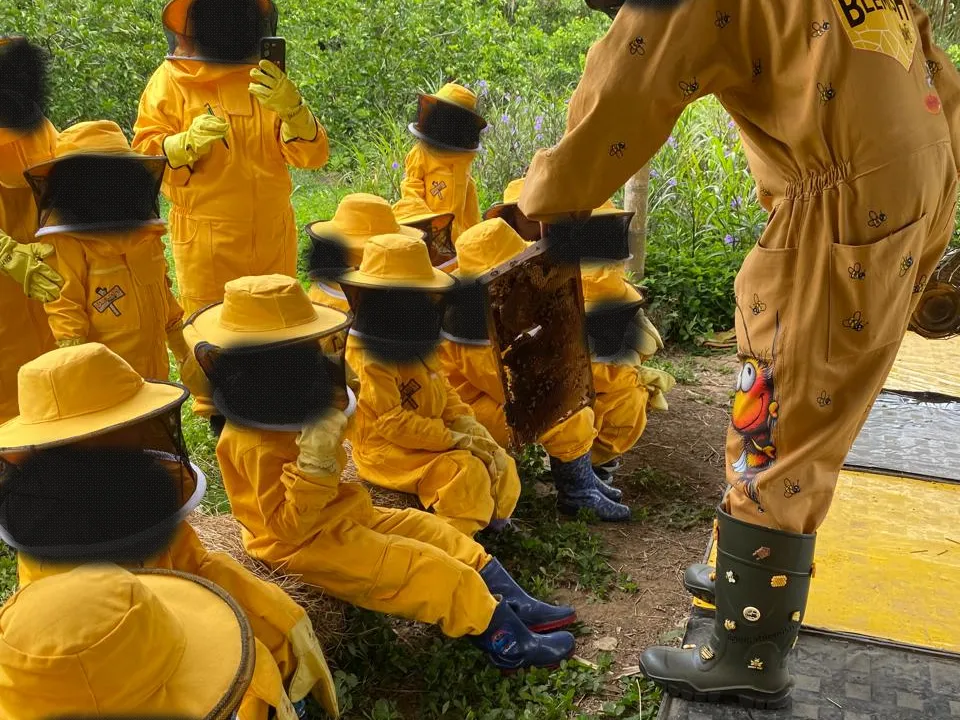
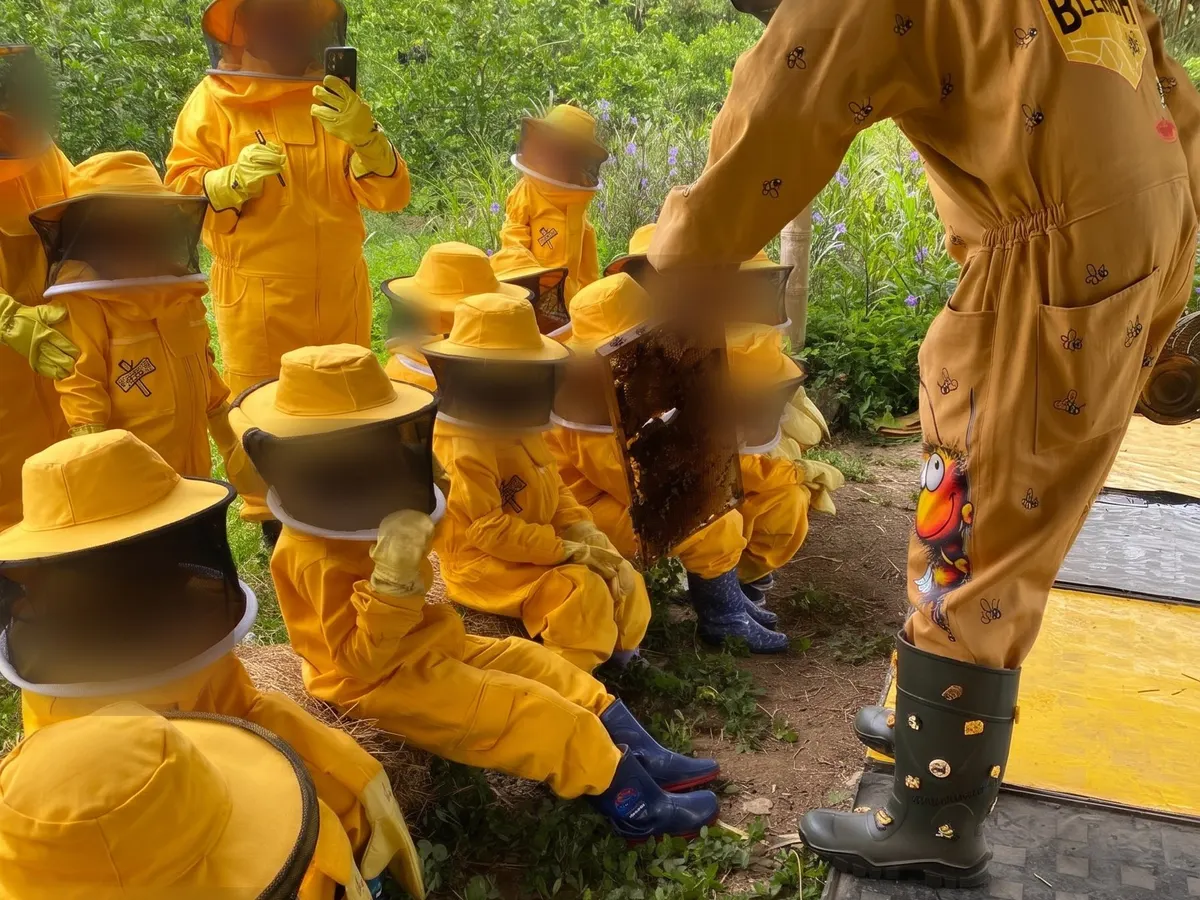
Plan Estudiantil: foto de Angel con rostros difuminados reforzados

diff --git a/index.html b/index.html
@@ -21,7 +21,7 @@
 <p class="lead">En Finca Blemish, a orillas de un brazo del río Cauca en Quinamayo (Jamundí), te invitamos a conocer de cerca el mundo de las abejas, la naturaleza y la vida del campo. Todas las visitas se programan con reserva previa.</p>
 <div class="xp">
 <article class="xcard"><img src="img/apicultor-dia.webp" alt="Apicultor por un día" loading="lazy"><div class="xb"><h3>Plan Turístico - Un Viaje a la Miel (Apicultor por un día)</h3><p>Recorrido por el apiario con traje de protección, aprendizaje sobre las abejas y la producción de miel, degustación y refrigerio. Los niños se gradúan como apicultores.</p><ul class="price"><li>Niños (2 a 14 años) <b>$50.000</b></li><li>Adultos (desde 15 años) <b>$55.000</b></li><li>Bebés (menores de 2 años) <b>Gratis</b></li></ul><small>Por persona</small></div></article>
-<article class="xcard"><picture><source srcset="img/plan-estudiantil.webp" type="image/webp"><img src="img/plan-estudiantil.jpg" alt="Estudiantes con trajes de apicultor observan un marco de panal que muestra el apicultor de Finca BlemisH" loading="lazy" width="960" height="720"></picture><div class="xb"><h3>Plan Estudiantil - Presencial y/o en tu Colegio</h3><p>Recorrido por el apiario con traje de protección Finca BlemisH, aprendizaje sobre las abejas y la producción de miel, degustación, refrigerio, rompecabezas (puzzle) y diploma. ¡Los estudiantes se gradúan como apicultores!</p><ul class="price"><li>Estudiante (en la finca) <b>$45.000</b></li><li>Profesores <b>Gratis</b></li><li>Visita a tu colegio <b>A cotizar</b></li></ul><small>Por persona. Requisito: 1 profesor acompañante por cada 6 estudiantes.</small></div></article>
+<article class="xcard"><picture><source srcset="img/plan-estudiantil.webp?v=2" type="image/webp"><img src="img/plan-estudiantil.jpg?v=2" alt="Estudiantes con trajes de apicultor observan un marco de panal que muestra el apicultor de Finca BlemisH" loading="lazy" width="1200" height="900"></picture><div class="xb"><h3>Plan Estudiantil - Presencial y/o en tu Colegio</h3><p>Recorrido por el apiario con traje de protección Finca BlemisH, aprendizaje sobre las abejas y la producción de miel, degustación, refrigerio, rompecabezas (puzzle) y diploma. ¡Los estudiantes se gradúan como apicultores!</p><ul class="price"><li>Estudiante (en la finca) <b>$45.000</b></li><li>Profesores <b>Gratis</b></li><li>Visita a tu colegio <b>A cotizar</b></li></ul><small>Por persona. Requisito: 1 profesor acompañante por cada 6 estudiantes.</small></div></article>
 <article class="xcard"><img src="img/a-canoa.webp" alt="Flotada y canoa por el río Cauca" loading="lazy"><div class="xb"><h3>Plan Empresarial - Presencial y/o en tu Empresa</h3><p>Trayecto por el río en flotador gigante y canoa, con posibilidad de nadar en sus playas según el nivel del río.</p><ul class="price"><li><b>$120.000</b></li></ul></div></article>
 </div>
 <div class="rsv" id="reservar"><div class="rsv-cal" aria-labelledby="rsv-t"><h3 id="rsv-t">Agenda tu visita</h3>
